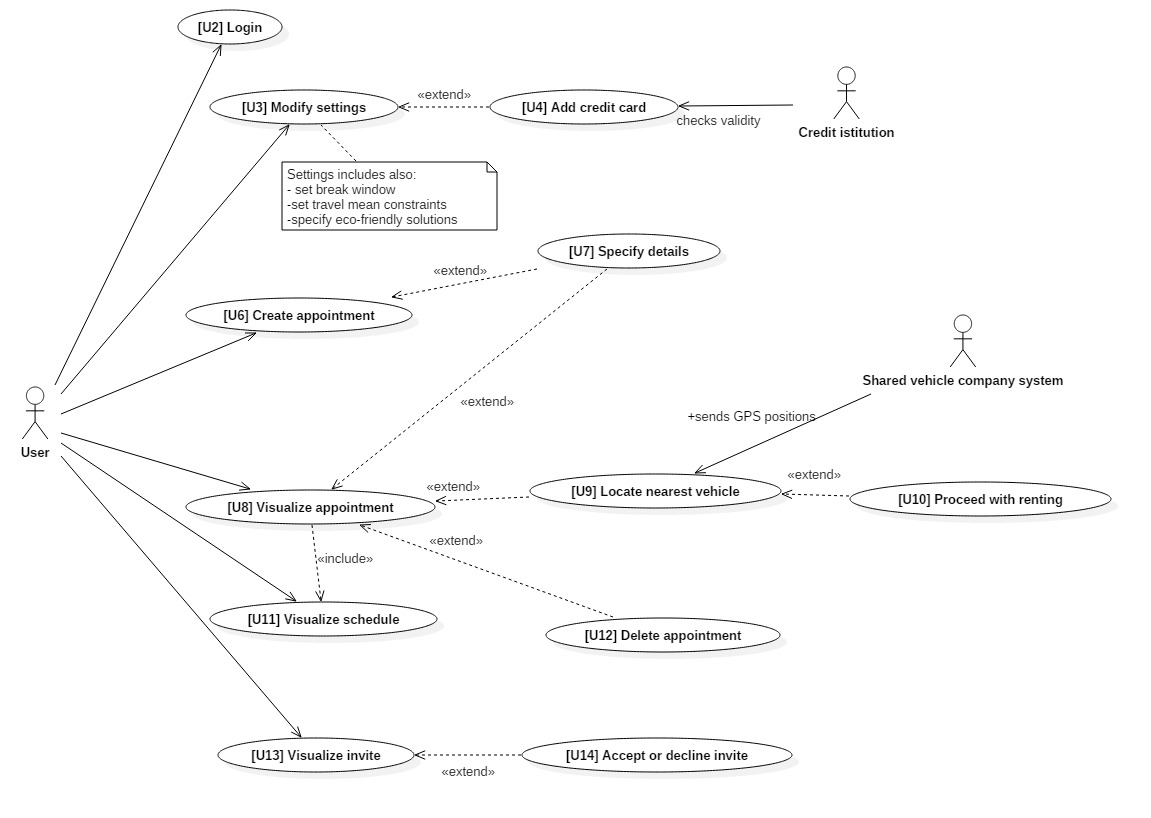
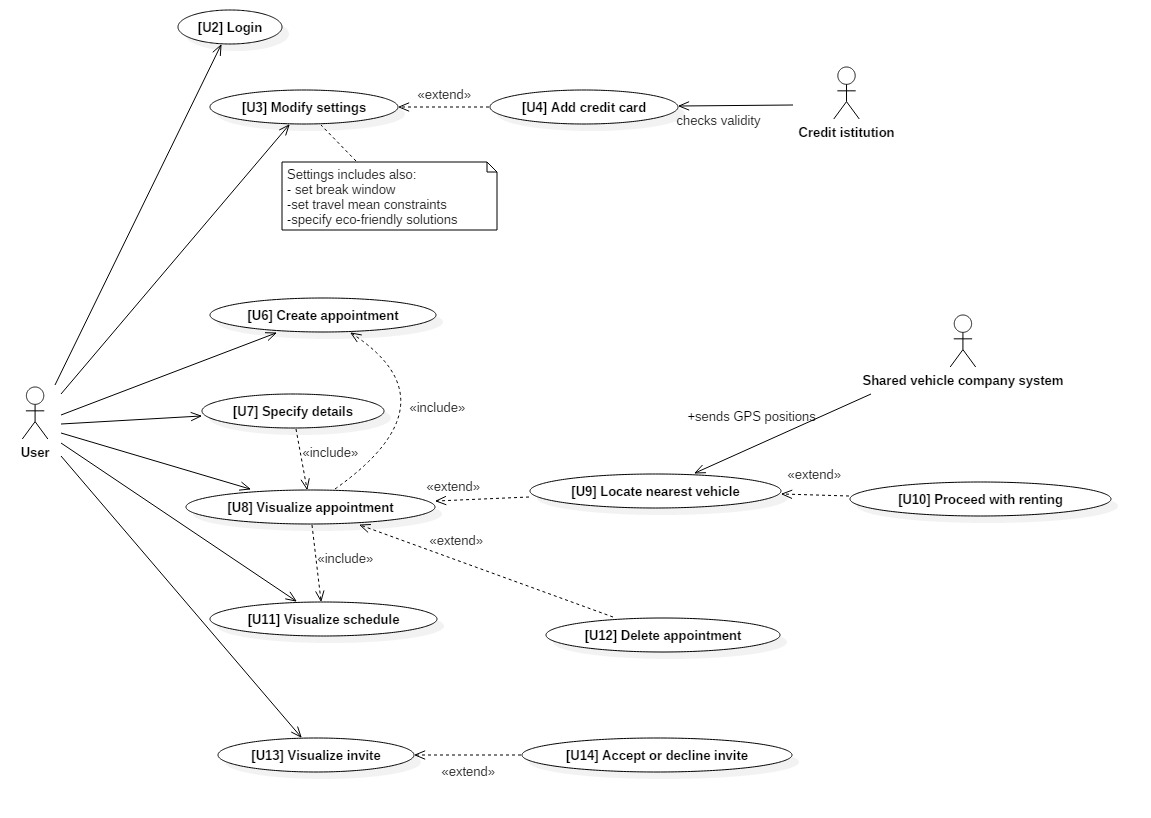
update mockup and use case diagramm. Update definitions on RASD

diff --git a/RASD/latex/sections/requirements.tex b/RASD/latex/sections/requirements.tex
@@ -161,24 +161,23 @@
 		
 		\vbox{ % to avoid page breaking
 			\noindent
-			\textbf{User visualizes the appointment}
+			\textbf{User specifies the appointment}
 			\medskip\\
 			\begin{tabu} to \textwidth {| X[\fcWidth,r,p] | X[1-\fcWidth,l,p] |}
-				\hline\textbf{Use case:} & User visualizes the appointment.
+				\hline\textbf{Use case:} & User specifies appointment's details.
 				\\
 				\hline\textbf{Actors:} & User
 				\\
 				\hline\textbf{Entry condition:} & user must be logged;\newline
-				the user must have selected the appointment from the schedule;
+				the appointment must exist;
 				
 				\\
-				\hline\textbf{Description:} & user visualize an appointment and eventually:
+				\hline\textbf{Description:} & user specifies or modifies basic details (time, date, location, type of appointment, number of passengers and the precence of baggage) and eventually:
 				\begin{itemize}
-					\item If not specified yet, set a travel mean;
-					\item Modify the previous travel mean or other detail such as location, baggage or passengers;
-					\item Buy a ticket for the travel mean;
-					\item Rent a shared vehicle if is the proper time to do that and locate the nearest one;
-					\item Delete the appointment. 
+					\item If not specified yet, sets a travel mean;
+					\item Modifies the previous travel mean;
+					\item Buys a ticket for the travel mean;
+					\item Invites a person. 
 				\end{itemize}\\
 				\hline
 			\end{tabu}\\

diff --git a/RASD/latex/sections/introduction.tex b/RASD/latex/sections/introduction.tex
@@ -60,9 +60,9 @@ The system interfaces with other firms (e.g. transportation companies, territory
 			- specify constraints, such as avoiding  bike, on the travel means solutions).
 			\item[- \textit{supported languages}:] the set of languages that the S2B will be able to use to comunicate with the user. English and Italian are included.
 			\item[- \textit{valid credentials}: Name, surname and personal email address]
-			\item[- \textit{appointment details}:]
-			\item[- \textit{incoming appointment}:]
-			\item[- \textit{affiliated company}:] a company (transport company or vehicle sharing company) that has deals with the S2B to allow the user to start the process of buying a ticket or renting a shared vehicle in the app and terminate it after being redirected to the affiliated company's system.
+			\item[- \textit{appointment details}:] time, date, type of appointment, location, number of passengers and precence of baggage.
+			\item[- \textit{incoming appointment}:] the next scheduled appointment for which the S2B send a remind to the user. The remind is sent  a certain amount of time before the appointment starts, to allow the user to get on time in the location.
+			\item[- \textit{affiliated company}:] a company (transport company or vehicle sharing company) that has deals with the S2B.
 		\end{description}
 	\subsubsection{Acronyms}
 		\begin{description}
